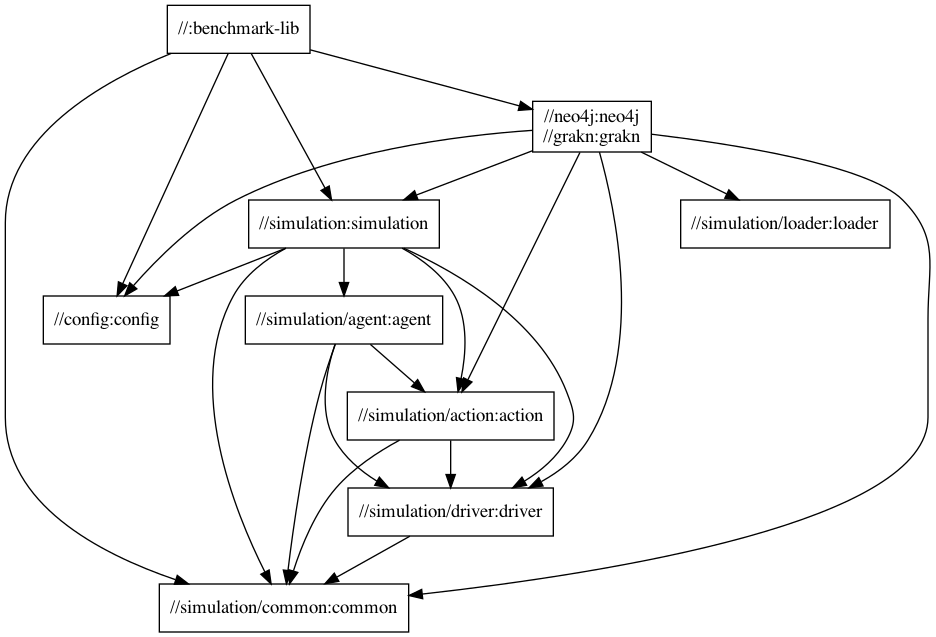
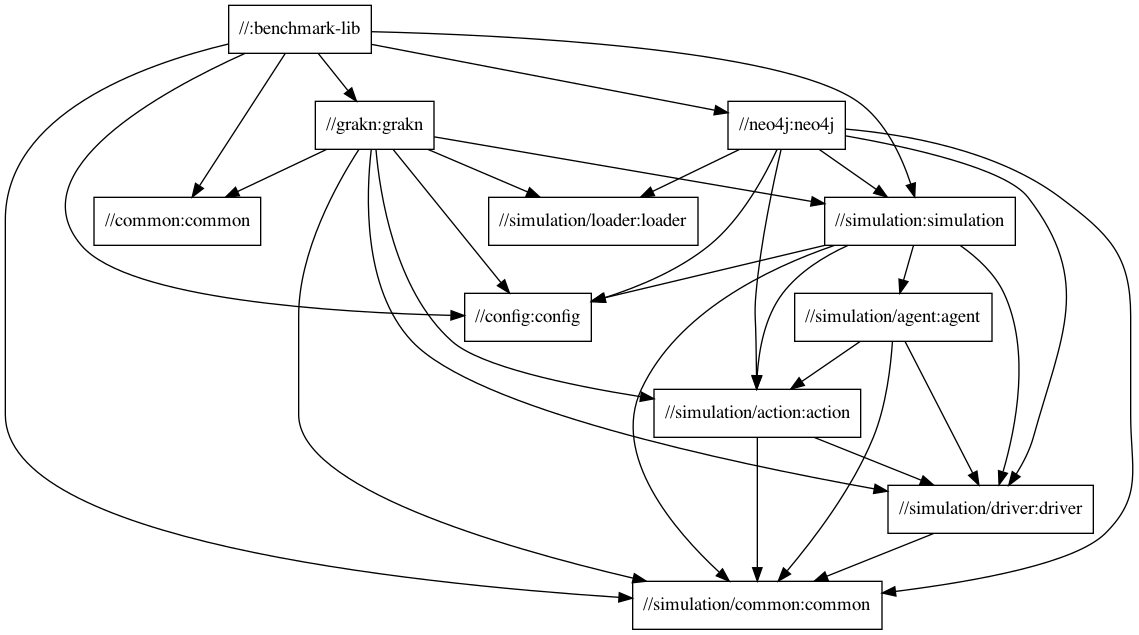
Cleaned up package structures and build files

diff --git a/simulation/agent/write/EmploymentAgent.java b/simulation/agent/write/EmploymentAgent.java
@@ -22,7 +22,7 @@ import grakn.benchmark.simulation.action.ActionFactory;
 import grakn.benchmark.simulation.action.read.CompaniesInCountryAction;
 import grakn.benchmark.simulation.action.read.ResidentsInCityAction;
 import grakn.benchmark.simulation.agent.Agent;
-import grakn.benchmark.simulation.agent.base.RandomValueGenerator;
+import grakn.benchmark.simulation.common.RandomValueGenerator;
 import grakn.benchmark.simulation.common.SimulationContext;
 import grakn.benchmark.simulation.driver.Session;
 import grakn.benchmark.simulation.driver.Transaction;
@@ -34,7 +34,7 @@ import java.util.ArrayList;
 import java.util.List;
 import java.util.Random;
 
-import static grakn.benchmark.simulation.agent.base.Allocation.allocate;
+import static grakn.benchmark.simulation.common.Allocation.allocate;
 import static java.util.stream.Collectors.toList;
 
 public class EmploymentAgent<TX extends Transaction> extends Agent<World.City, TX> {

diff --git a/simulation/Simulation.java b/simulation/Simulation.java
@@ -115,7 +115,7 @@ public abstract class Simulation<CLIENT extends Client<SESSION, TX>, SESSION ext
         for (Config.Agent agentConfig : agentConfigs) {
             if (agentConfig.getAgentMode().getRun()) {
                 Agent<?, TX> agent;
-                Class<?> agentClass = Class.forName(agentConfig.getName() + "Agent");
+                Class<?> agentClass = Class.forName(agentConfig.getName() + "Agent"); // TODO: should the suffix not be included in the provided name?
                 if (agentBuilders.containsKey(agentClass)) agent = agentBuilders.get(agentClass).apply(context);
                 else throw new IllegalArgumentException("Unrecognised agent name: " + agentClass);
                 agent.overrideTracing(agentConfig.getAgentMode().getTrace());

diff --git a/simulation/agent/write/PurchaseAgent.java b/simulation/agent/write/PurchaseAgent.java
@@ -22,8 +22,8 @@ import grakn.benchmark.simulation.action.ActionFactory;
 import grakn.benchmark.simulation.action.read.CompaniesInCountryAction;
 import grakn.benchmark.simulation.action.read.ProductsInContinentAction;
 import grakn.benchmark.simulation.agent.Agent;
-import grakn.benchmark.simulation.agent.base.Allocation;
-import grakn.benchmark.simulation.agent.base.RandomValueGenerator;
+import grakn.benchmark.simulation.common.Allocation;
+import grakn.benchmark.simulation.common.RandomValueGenerator;
 import grakn.benchmark.simulation.common.SimulationContext;
 import grakn.benchmark.simulation.driver.Session;
 import grakn.benchmark.simulation.driver.Transaction;

diff --git a/simulation/agent/write/RelocationAgent.java b/simulation/agent/write/RelocationAgent.java
@@ -22,7 +22,7 @@ import grakn.benchmark.simulation.action.ActionFactory;
 import grakn.benchmark.simulation.action.read.CitiesInContinentAction;
 import grakn.benchmark.simulation.action.read.ResidentsInCityAction;
 import grakn.benchmark.simulation.agent.Agent;
-import grakn.benchmark.simulation.agent.base.Allocation;
+import grakn.benchmark.simulation.common.Allocation;
 import grakn.benchmark.simulation.common.SimulationContext;
 import grakn.benchmark.simulation.driver.Session;
 import grakn.benchmark.simulation.driver.Transaction;

diff --git a/simulation/agent/write/ParentshipAgent.java b/simulation/agent/write/ParentshipAgent.java
@@ -23,7 +23,7 @@ import grakn.benchmark.simulation.action.SpouseType;
 import grakn.benchmark.simulation.action.read.BirthsInCityAction;
 import grakn.benchmark.simulation.action.read.MarriedCoupleAction;
 import grakn.benchmark.simulation.agent.Agent;
-import grakn.benchmark.simulation.agent.base.Allocation;
+import grakn.benchmark.simulation.common.Allocation;
 import grakn.benchmark.simulation.common.SimulationContext;
 import grakn.benchmark.simulation.driver.Session;
 import grakn.benchmark.simulation.driver.Transaction;

diff --git a/simulation/agent/write/ProductAgent.java b/simulation/agent/write/ProductAgent.java
@@ -20,7 +20,7 @@ package grakn.benchmark.simulation.agent.write;
 import grakn.benchmark.simulation.action.Action;
 import grakn.benchmark.simulation.action.ActionFactory;
 import grakn.benchmark.simulation.agent.Agent;
-import grakn.benchmark.simulation.agent.base.RandomValueGenerator;
+import grakn.benchmark.simulation.common.RandomValueGenerator;
 import grakn.benchmark.simulation.common.SimulationContext;
 import grakn.benchmark.simulation.driver.Session;
 import grakn.benchmark.simulation.driver.Transaction;

diff --git a/simulation/common/Allocation.java b/simulation/common/Allocation.java
@@ -15,7 +15,7 @@
  * along with this program.  If not, see <https://www.gnu.org/licenses/>.
  */
 
-package grakn.benchmark.simulation.agent.base;
+package grakn.benchmark.simulation.common;
 
 import java.util.ArrayList;
 import java.util.LinkedHashMap;

diff --git a/simulation/common/RandomValueGenerator.java b/simulation/common/RandomValueGenerator.java
@@ -15,7 +15,7 @@
  * along with this program.  If not, see <https://www.gnu.org/licenses/>.
  */
 
-package grakn.benchmark.simulation.agent.base;
+package grakn.benchmark.simulation.common;
 
 import org.apache.commons.lang3.RandomStringUtils;
 
